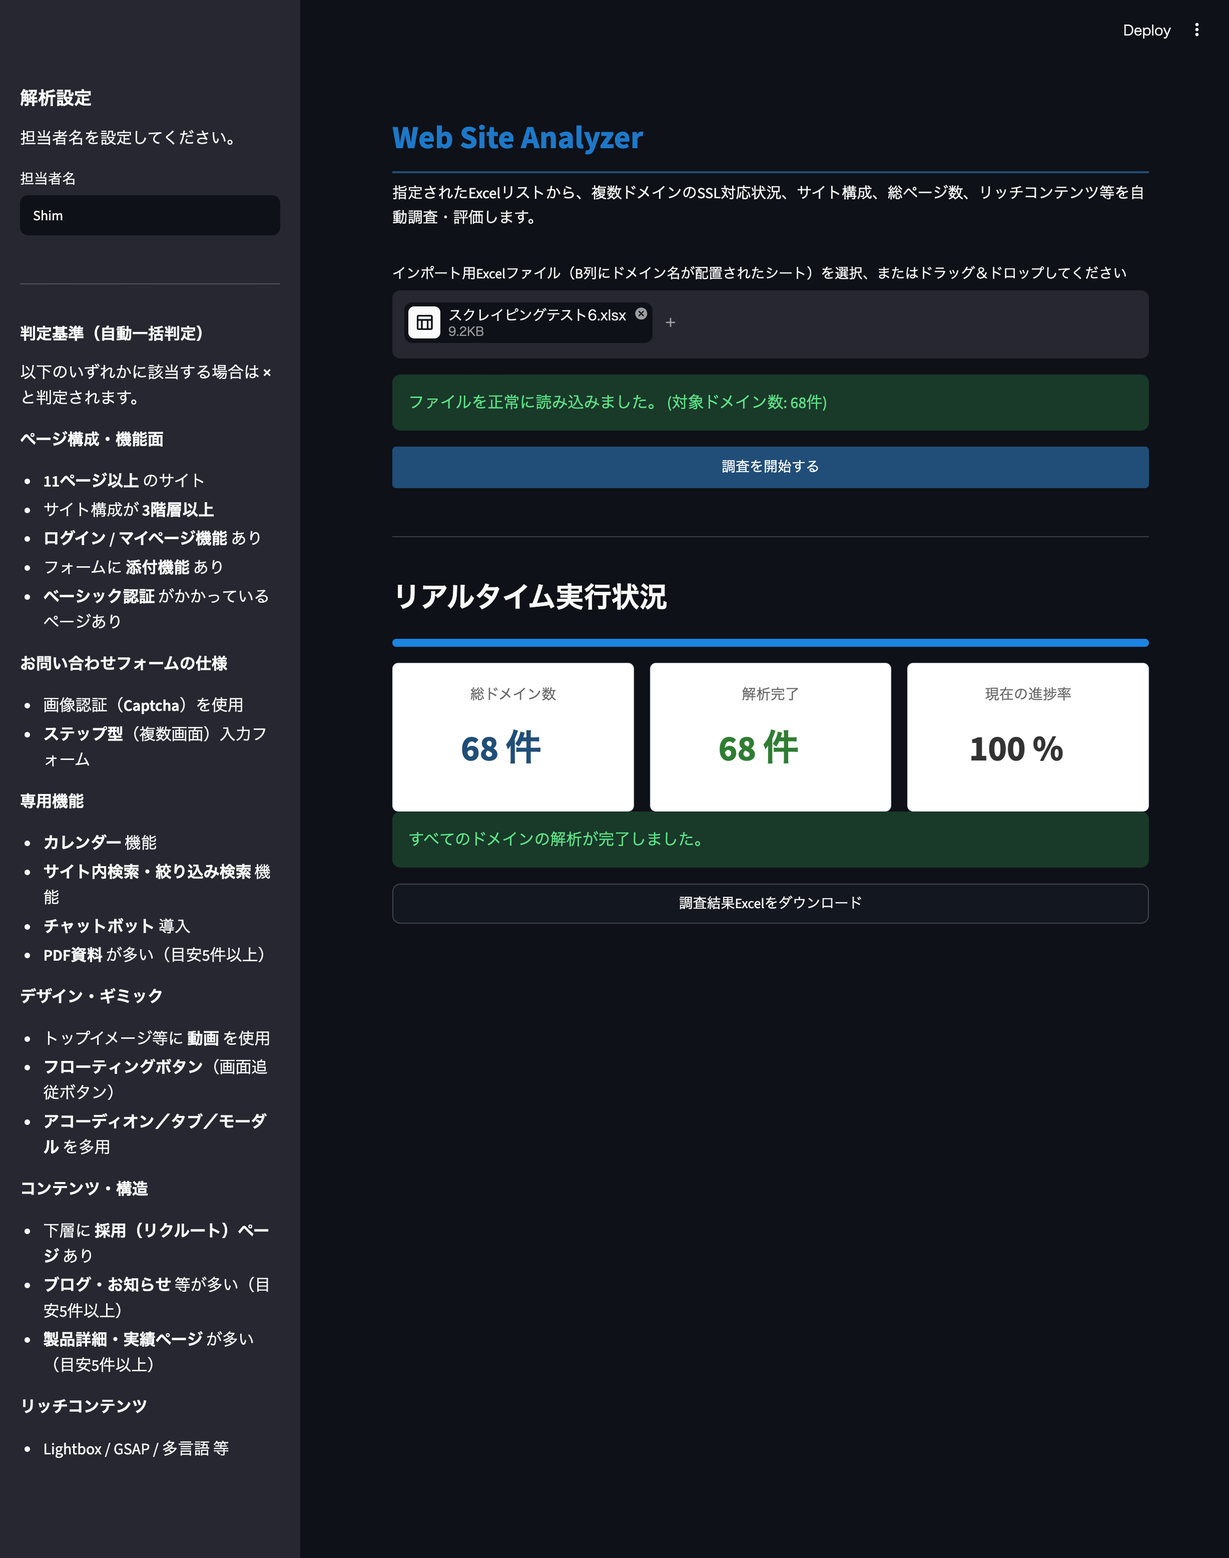
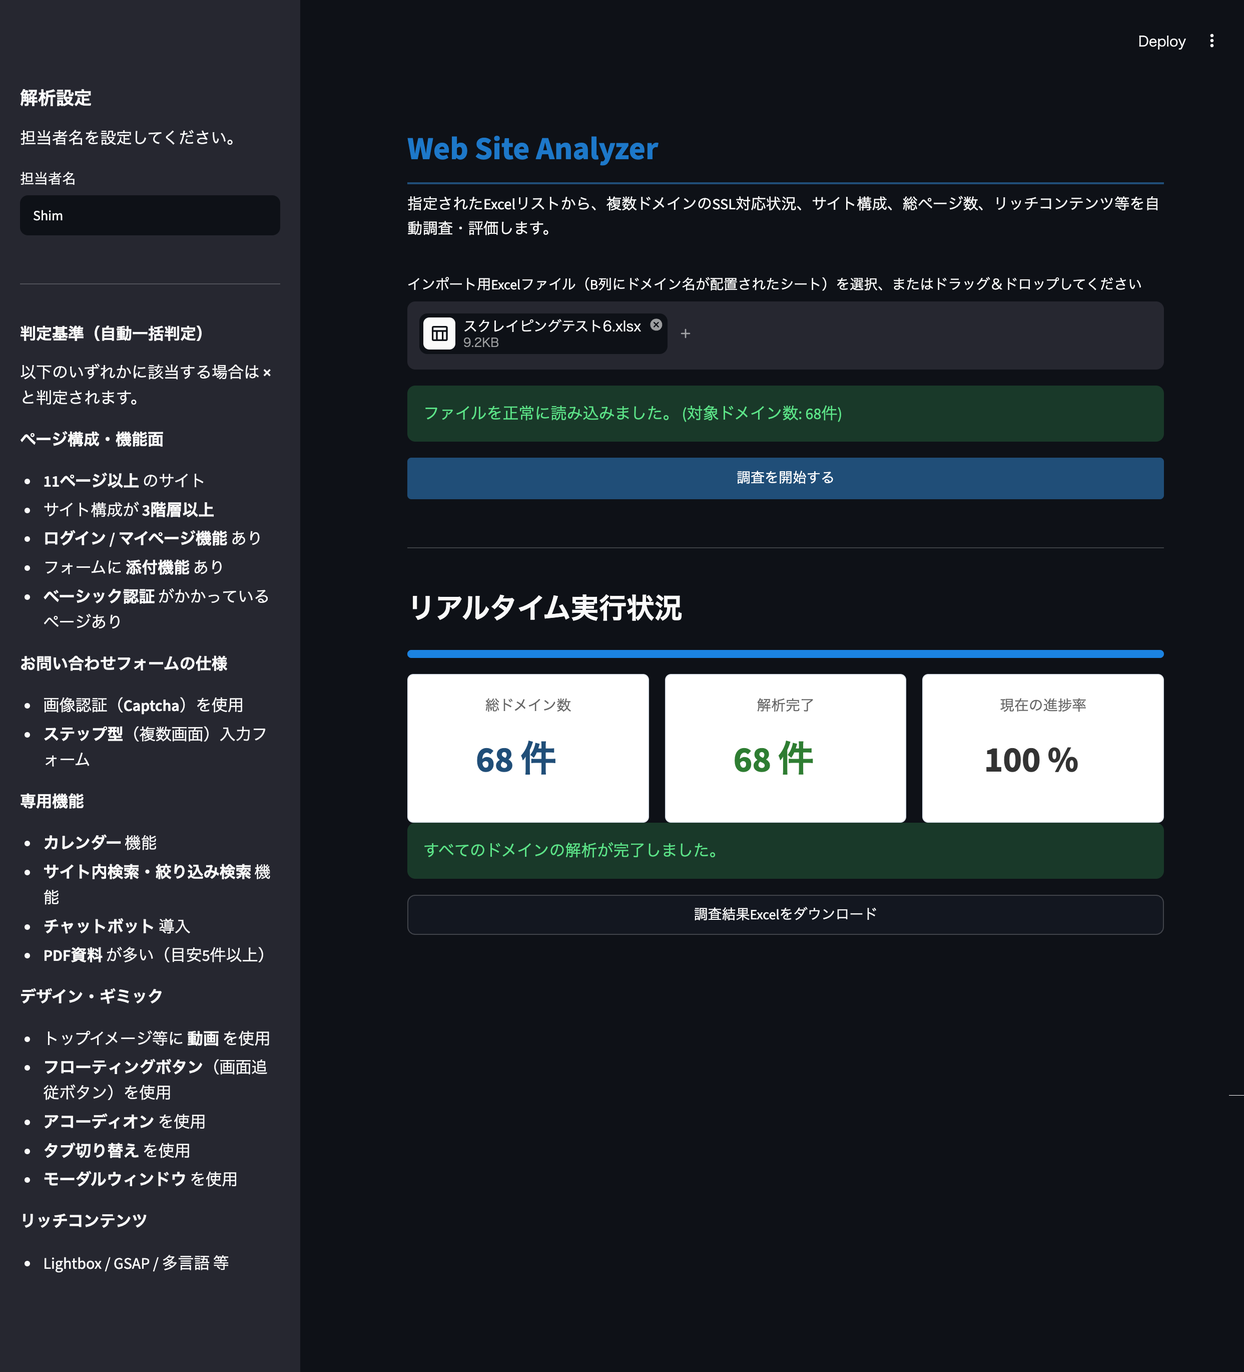
refactor: drop recruit/blog/works volume detection; split accordion/tab/modal into separate criteria; sync main.py sidebar and docs

diff --git a/src/web_analyzer/core/evaluator.py b/src/web_analyzer/core/evaluator.py
@@ -10,14 +10,11 @@ class RenewalEvaluator:
     SCROLL_ANIMATION_KEYWORDS = ["gsap", "scrolltrigger", "data-aos", "locomotive-scroll"]
     VIDEO_KEYWORDS = ["<video", "youtube.com/embed", "vimeo.com"]
     FLOATING_BUTTON_KEYWORDS = ["floating", "fixed-btn", "pagetop", "to-top", "follow-window"]
-    ACCORDION_MODAL_KEYWORDS = ["accordion", "tab-content", "data-toggle", "aria-expanded", "modal-window"]
-    RECRUIT_KEYWORDS = ["/recruit/", "採用情報", "リクルートサイト"]
-    BLOG_NEWS_KEYWORDS = ["/blog/", "/news/", "/topics/"]
-    WORKS_KEYWORDS = ["/works/", "/case/", "/products/"]
+    ACCORDION_KEYWORDS = ["accordion"]
+    TAB_KEYWORDS = ["tab-content", "nav-tabs"]
+    MODAL_KEYWORDS = ["modal-window", "modal-dialog"]
 
     PDF_LINK_THRESHOLD = 5  # この件数以上PDFリンクがあれば「資料が多い」と判定
-    BLOG_NEWS_LINK_THRESHOLD = 5  # ブログ・お知らせ系リンクの出現数の閾値
-    WORKS_LINK_THRESHOLD = 5  # 製品・実績系リンクの出現数の閾値
 
     def decide(
         self,
@@ -80,7 +77,7 @@ class RenewalEvaluator:
 
         # --- ページ数・階層構成 ---
         if total_pages > page_threshold:
-            reasons.append("ページ数が多いため")
+            reasons.append(f"ページ数が多いため ({total_pages}ページ)")
 
         if max_depth > 2:
             reasons.append("サイト構成が3階層以上のため")
@@ -127,18 +124,14 @@ class RenewalEvaluator:
         if any(k in html_lower for k in self.FLOATING_BUTTON_KEYWORDS):
             reasons.append("フローティングボタン（画面追従ボタン）があるため")
 
-        if any(k in html_lower for k in self.ACCORDION_MODAL_KEYWORDS):
-            reasons.append("アコーディオン／タブ切り替え／モーダルが多用されているため")
+        if any(k in html_lower for k in self.ACCORDION_KEYWORDS):
+            reasons.append("アコーディオンが使用されているため")
 
-        # --- コンテンツ・構造面 ---
-        if any(k in html_lower for k in self.RECRUIT_KEYWORDS):
-            reasons.append("下層にリクルート（採用）サイトがあるため")
+        if any(k in html_lower for k in self.TAB_KEYWORDS):
+            reasons.append("タブ切り替えが使用されているため")
 
-        if sum(html_lower.count(k) for k in self.BLOG_NEWS_KEYWORDS) >= self.BLOG_NEWS_LINK_THRESHOLD:
-            reasons.append("ブログ・お知らせ等の更新コンテンツが多いため")
-
-        if sum(html_lower.count(k) for k in self.WORKS_KEYWORDS) >= self.WORKS_LINK_THRESHOLD:
-            reasons.append("製品詳細・施工実績等のページが多いため")
+        if any(k in html_lower for k in self.MODAL_KEYWORDS):
+            reasons.append("モーダルウィンドウが使用されているため")
 
         # --- リッチコンテンツ ---
         if any(k in html_lower for k in self.RICH_UI_KEYWORDS):

diff --git a/src/web_analyzer/main.py b/src/web_analyzer/main.py
@@ -104,13 +104,10 @@ with st.sidebar:
 
         **デザイン・ギミック**
         * トップイメージ等に **動画** を使用
-        * **フローティングボタン**（画面追従ボタン）
-        * **アコーディオン／タブ／モーダル** を多用
-
-        **コンテンツ・構造**
-        * 下層に **採用（リクルート）ページ** あり
-        * **ブログ・お知らせ** 等が多い（目安5件以上）
-        * **製品詳細・実績ページ** が多い（目安5件以上）
+        * **フローティングボタン**（画面追従ボタン）を使用
+        * **アコーディオン** を使用
+        * **タブ切り替え** を使用
+        * **モーダルウィンドウ** を使用
 
         **リッチコンテンツ**
         * Lightbox / GSAP / 多言語 等

diff --git a/docs/requirements_definition.md b/docs/requirements_definition.md
@@ -21,7 +21,7 @@
 | --- | --- | --- | --- |
 | **A** | 日付 | 文字列 | アプリ実行時の日付を `M/D` 形式（例: `7/16`）で出力。 |
 | **B** | サイト名 | 文字列 | インポートされたドメイン名（そのまま維持）。 |
-| **C** | 調査結果 | 文字列 | **`◯` / `×` / `要確認` の3値。** `RenewalEvaluator.decide()` が以下の優先順位で一括判定する（旧仕様では「要確認」に倒す分岐が`SiteScraperService`側にあったが、`decide()`への集約により判定ロジック全体が`evaluator.py`に一本化された）。<br><br>【最優先・要確認判定】<br>(1) 接続エラー、タイムアウト、ボットブロック等で総ページ数が **0** の場合 ➔ **『要確認』**（理由: 接続不可またはアクセス拒否のため、判定を保留しました。）<br>(2) 取得ページ数が **1〜2ページ** の場合 ➔ **『要確認』**（理由: クロールできたページ数が極端に少ないため判定を保留しました。）<br>(3) 階層数が深すぎて計測できない場合（`max_depth == "要確認"`、実クロールで階層10超過時）➔ **『要確認』**（理由: サイト階層が深すぎるため、別途サイトエクスプローラー等での確認をお願いします。）<br><br>【上記に該当しない場合の◯/×判定】(`decide()`内部から`evaluate()`を呼び出して決定)<br>以下のいずれか1つでも該当すれば **`×`**、いずれにも該当しなければ **`◯`**。該当理由はすべてM列に改行区切りで列挙される。<br><br>*ページ構成・機能面*<br>・ページ数が `page_threshold`（デフォルト10）を超える<br>・階層数が3階層以上（`max_depth > 2`）<br>・ログイン／マイページ機能を検出<br>・お問い合わせフォームに添付（ファイル）機能を検出<br>・ベーシック認証（401 Unauthorized）がかかっているページを検出<br><br>*お問い合わせフォームの仕様*<br>・画像認証（Captcha）を使用<br>・ステップ型（複数画面に分割された）入力フォーム<br><br>*専用機能*<br>・カレンダー機能<br>・サイト内検索・絞り込み検索機能<br>・チャットボット導入<br>・PDF資料・ダウンロードデータが多い（PDFリンク数が`PDF_LINK_THRESHOLD`＝デフォルト5件以上）<br><br>*デザイン・ギミック面*<br>・トップイメージ等に動画（`<video>`タグ、YouTube/Vimeo埋め込み）を使用<br>・フローティングボタン（画面追従ボタン）を使用<br>・アコーディオン／タブ切り替え／モーダルを使用<br><br>*コンテンツ・構造面*<br>・下層にリクルート（採用）サイトがある<br>・ブログ・お知らせ等の更新コンテンツが多い（該当リンクの出現数が`BLOG_NEWS_LINK_THRESHOLD`＝デフォルト5件以上）<br>・製品詳細・施工実績等のページが多い（該当リンクの出現数が`WORKS_LINK_THRESHOLD`＝デフォルト5件以上）<br><br>*リッチコンテンツ*<br>・Lightbox / Fancybox 等のギャラリー機能を検出<br>・多言語切り替え機能（Google翻訳、言語セレクタ等）を検出<br>・GSAP / ScrollTrigger / AOS 等のスクロールアニメーションを多用<br><br>※旧仕様の `◎`（優良）/`△`（要検討）の2段階は廃止され、判定は2値（◯/×）に簡素化されている。<br>※Google Map埋め込みのみ、ほぼすべてのコーポレートサイトのアクセスページに存在し単独では判定基準として機能しにくいため、意図的に不可理由から除外している。 |
+| **C** | 調査結果 | 文字列 | **`◯` / `×` / `要確認` の3値。** `RenewalEvaluator.decide()` が以下の優先順位で一括判定する（旧仕様では「要確認」に倒す分岐が`SiteScraperService`側にあったが、`decide()`への集約により判定ロジック全体が`evaluator.py`に一本化された）。<br><br>【最優先・要確認判定】<br>(1) 接続エラー、タイムアウト、ボットブロック等で総ページ数が **0** の場合 ➔ **『要確認』**（理由: 接続不可またはアクセス拒否のため、判定を保留しました。）<br>(2) 取得ページ数が **1〜2ページ** の場合 ➔ **『要確認』**（理由: クロールできたページ数が極端に少ないため判定を保留しました。）<br>(3) 階層数が深すぎて計測できない場合（`max_depth == "要確認"`、実クロールで階層10超過時）➔ **『要確認』**（理由: サイト階層が深すぎるため、別途サイトエクスプローラー等での確認をお願いします。）<br><br>【上記に該当しない場合の◯/×判定】(`decide()`内部から`evaluate()`を呼び出して決定)<br>以下のいずれか1つでも該当すれば **`×`**、いずれにも該当しなければ **`◯`**。該当理由はすべてM列に改行区切りで列挙される。<br><br>*ページ構成・機能面*<br>・ページ数が `page_threshold`（デフォルト10）を超える<br>・階層数が3階層以上（`max_depth > 2`）<br>・ログイン／マイページ機能を検出<br>・お問い合わせフォームに添付（ファイル）機能を検出<br>・ベーシック認証（401 Unauthorized）がかかっているページを検出<br><br>*お問い合わせフォームの仕様*<br>・画像認証（Captcha）を使用<br>・ステップ型（複数画面に分割された）入力フォーム<br><br>*専用機能*<br>・カレンダー機能<br>・サイト内検索・絞り込み検索機能<br>・チャットボット導入<br>・PDF資料・ダウンロードデータが多い（PDFリンク数が`PDF_LINK_THRESHOLD`＝デフォルト5件以上）<br><br>*デザイン・ギミック面*<br>・トップイメージ等に動画（`<video>`タグ、YouTube/Vimeo埋め込み）を使用<br>・フローティングボタン（画面追従ボタン）を使用<br>・アコーディオンを使用<br>・タブ切り替えを使用<br>・モーダルウィンドウを使用<br><br>*リッチコンテンツ*<br>・Lightbox / Fancybox 等のギャラリー機能を検出<br>・多言語切り替え機能（Google翻訳、言語セレクタ等）を検出<br>・GSAP / ScrollTrigger / AOS 等のスクロールアニメーションを多用<br><br>※旧仕様の `◎`（優良）/`△`（要検討）の2段階は廃止され、判定は2値（◯/×）に簡素化されている。<br>※アコーディオン／タブ／モーダルの検知には当初`data-toggle`/`aria-expanded`という汎用属性も含めていたが、通常のハンバーガーメニュー等にも広く使われ誤検知の原因になり得るため削除し、機能ごとの専用クラス名のみで判定している。<br>※Google Map埋め込み、および採用ページの有無・ブログ/実績ページのボリュームについては、検討の結果、意図的に不可理由から除外している（Google Mapはほぼ全サイトのアクセスページに存在し判定基準として機能しにくいため、後者はコンテンツの量そのものがリニューアル可否の妥当な指標とは言えないと判断したため）。 |
 | **D** | SSLあり | 文字列 | `http://` からの接続を追跡、または個別に `https://` 接続を検証し、有効なSSL証明書が確認できれば **「あり」**、不可の場合は **「なし」**、両方とも接続に失敗し判定不能な場合は空欄。 |
 | **E** | SSL常時 | 文字列 | `http://` へのアクセスが自動的に `https://` へリダイレクトされることが確認できれば **「◯」**。リダイレクトなくHTTPのまま到達できた場合は **「×」**。`http://` 自体に接続できず（ポート80非対応など）、フォールバックで `https://` へ直接接続し成功した場合も、実質的にSSLのみで到達可能なサイトとして **「◯」** 扱いとする。両方とも失敗した場合は空欄。 |
 | **F** | 階層数 | 整数 or 文字列 | URLパスのセグメント数（＋トップページ分の1）を基準とする最大階層数。**階層数が10を超える場合は数値ではなく `"要確認"` という文字列を返す**（判定を自動化せず、別ツールでの目視確認に委ねるための仕様）。 |
@@ -31,7 +31,7 @@
 | **J** | 使用CMS | 文字列 | HTMLソース内のシグネチャから国内外の主要CMSを多角的に判定（WordPress, baserCMS, EC-CUBE, Movable Type, Drupal, TYPO3, concrete5, Shopify, Wix 等、30種以上を検知対象とする）。非CMSサイトは空欄と出力。 |
 | **K** | 用途 | 文字列 | トップページのメタ情報より優先度順に抽出。(1) `<meta name="description">`（`og:description`も可）➔ (2) `<title>` ➔ (3) `<h1>`。**文字数の切り詰めは行わない。** |
 | **L** | 問合せ項目 | 文字列 | 問い合わせページと思われるURL・リンクテキストを検出した上で、フォーム内の入力項目ラベルを `aria-labelledby` / `aria-label` / `<label for>` / 祖先要素（`dt`, `th`, `legend`等）から解決して改行区切りで出力。上記で取得できない場合は `th`/`label`/`dt`/`td`/`legend` の総当たり、それでも取得できない場合は `placeholder`/`aria-label`/`title`/`name` 属性値をフォールバックとして使用。HubSpot・Tayori等の外部埋め込みフォームを検出した場合はその旨のテキストを出力。iframe内のフォームも最大2階層まで再帰的に解析する。 |
-| **M** | 不可の理由 | 文字列 | **(1) ページ数が0ページ（接続不可・ボット拒否）➔ 「接続不可またはアクセス拒否のため、判定を保留しました。」**<br>(2) ページ数が1〜2ページ ➔ 「クロールできたページ数が極端に少ないため判定を保留しました (取得数: {n}ページ)。」<br>(3) 階層が深すぎて計測不能 ➔ 「サイト階層が深すぎるため、別途サイトエクスプローラー等での確認をお願いします。」<br>(4) 上記以外で `×` 判定となった場合、該当する理由を改行区切りですべて列挙：ページ数超過／3階層以上／ログイン機能あり／添付機能あり／ベーシック認証あり／Captcha使用／ステップ型フォーム／カレンダー機能／サイト内検索機能／チャットボット導入／PDF資料多数／動画使用／フローティングボタン／アコーディオン・タブ・モーダル多用／採用ページあり／ブログ・お知らせ等多数／製品詳細・実績ページ多数／Lightbox等／多言語対応／スクロールアニメーション多用。<br><br>※旧仕様にあった「問い合わせ入力項目が検出できませんでした」という理由は、現状の `RenewalEvaluator` には存在しない。 |
+| **M** | 不可の理由 | 文字列 | **(1) ページ数が0ページ（接続不可・ボット拒否）➔ 「接続不可またはアクセス拒否のため、判定を保留しました。」**<br>(2) ページ数が1〜2ページ ➔ 「クロールできたページ数が極端に少ないため判定を保留しました (取得数: {n}ページ)。」<br>(3) 階層が深すぎて計測不能 ➔ 「サイト階層が深すぎるため、別途サイトエクスプローラー等での確認をお願いします。」<br>(4) 上記以外で `×` 判定となった場合、該当する理由を改行区切りですべて列挙：ページ数超過／3階層以上／ログイン機能あり／添付機能あり／ベーシック認証あり／Captcha使用／ステップ型フォーム／カレンダー機能／サイト内検索機能／チャットボット導入／PDF資料多数／動画使用／フローティングボタン／アコーディオン使用／タブ切り替え使用／モーダルウィンドウ使用／Lightbox等／多言語対応／スクロールアニメーション多用。<br><br>※旧仕様にあった「問い合わせ入力項目が検出できませんでした」という理由は、現状の `RenewalEvaluator` には存在しない。 |
 | **N** | 備考 | 文字列 | **現状のコードでは常に空欄。** クロールしたテキスト群から特徴文を自動生成する機能は仕様として構想されているが未実装。 |
 | **O** | 担当 | 文字列 | アプリ実行時にユーザーが手動入力した「担当者名」をそのまま出力。 |
 

diff --git a/docs/screen_transition.md b/docs/screen_transition.md
@@ -25,7 +25,7 @@ flowchart TD
     O -- Yes --> P[調査結果を『要確認』に設定（ページ数極小）]
     O -- No --> Q{階層数が『要確認』?}
     Q -- Yes --> R[調査結果を『要確認』に設定（階層深すぎ、別ツールでの確認を促す）]
-    Q -- No --> S[decide()内部でevaluate()を呼び判定（ページ数超過/3階層以上/ログイン/添付/ベーシック認証/Captcha/ステップ型フォーム/カレンダー/サイト内検索/チャットボット/PDF資料多数/動画/フローティングボタン/アコーディオン等/採用ページ/ブログ多数/実績ページ多数/Lightbox/多言語/スクロールアニメーション等を判定し◯または×を確定）]
+    Q -- No --> S[decide()内部でevaluate()を呼び判定（ページ数超過/3階層以上/ログイン/添付/ベーシック認証/Captcha/ステップ型フォーム/カレンダー/サイト内検索/チャットボット/PDF資料多数/動画/フローティングボタン/アコーディオン/タブ切り替え/モーダル/Lightbox/多言語/スクロールアニメーション等を判定し◯または×を確定）]
     N --> T[結果をSiteAssessmentへスレッドセーフに書き込み]
     P --> T
     R --> T
@@ -51,7 +51,7 @@ flowchart TD
 * 旧仕様にあった「閾値1〜3による◎/◯/△/×の4段階判定」は廃止され、現在は **◯/×の2値＋要確認** の運用になっている。
 * 「要確認」に倒れる条件が3パターンに増えている（総ページ数0／総ページ数1〜2／階層数計測不能）。旧フローには階層数計測不能のケースが含まれていなかった。
 * バックグラウンド処理は「ドメイン単位の逐次処理」であり、1ドメインの処理失敗（例外）はログに記録された上でそのドメインだけ初期値のまま次へ進む。ジョブ全体が失敗扱いになるのは、ループ全体を囲う外側の`try`で捕捉されなかった場合のみ。
-* `×`判定の理由が大幅に拡張されている。当初のLightbox／多言語／スクロールアニメーションに加え、ベーシック認証（401）、Captcha、ステップ型フォーム、カレンダー、サイト内検索、チャットボット、PDF資料多数、動画、フローティングボタン、アコーディオン／タブ／モーダル、採用ページ、ブログ・お知らせ等の多数、製品詳細・実績ページの多数、の合計14項目が追加された。Google Map埋め込みのみ、ほぼすべてのコーポレートサイトのアクセスページに存在し単独では判定基準として機能しにくいため、意図的に除外している。
+* `×`判定の理由が大幅に拡張されている。当初のLightbox／多言語／スクロールアニメーションに加え、ベーシック認証（401）、Captcha、ステップ型フォーム、カレンダー、サイト内検索、チャットボット、PDF資料多数、動画、フローティングボタン、アコーディオン、タブ切り替え、モーダルウィンドウ、の合計13項目が追加された。Google Map埋め込み、および採用ページの有無・ブログ/実績ページのボリュームについては、検討の結果、意図的に不可理由から除外している。アコーディオン／タブ／モーダルの検知は当初1つのキーワードリストにまとめていたが、汎用属性（`data-toggle`/`aria-expanded`）が通常のハンバーガーメニュー等にも誤反応するリスクがあったため削除し、機能ごとに3分割している。
 * `WebCrawler.crawl_and_analyze`の戻り値が9要素→10要素のtupleに変更され、`has_basic_auth`（クロール中に401応答を検知したページが1件でもあればTrue）が追加された。
 * `models.py`は`web_analyzer/core/models.py`ではなく`web_analyzer/models.py`に配置されている。
 * ロギング基盤が整備され、`main.py`起動時に`setup_logger()`を1回呼び出すことで、コンソールに加えて`logs/app_YYYYMMDD.log`にもログが出力されるようになった。あわせて`measure_time`（処理時間計測）・`log_action`（開始/完了ログ）デコレータが、クロール・SSLチェック・Excel出力の各処理に適用されている。
